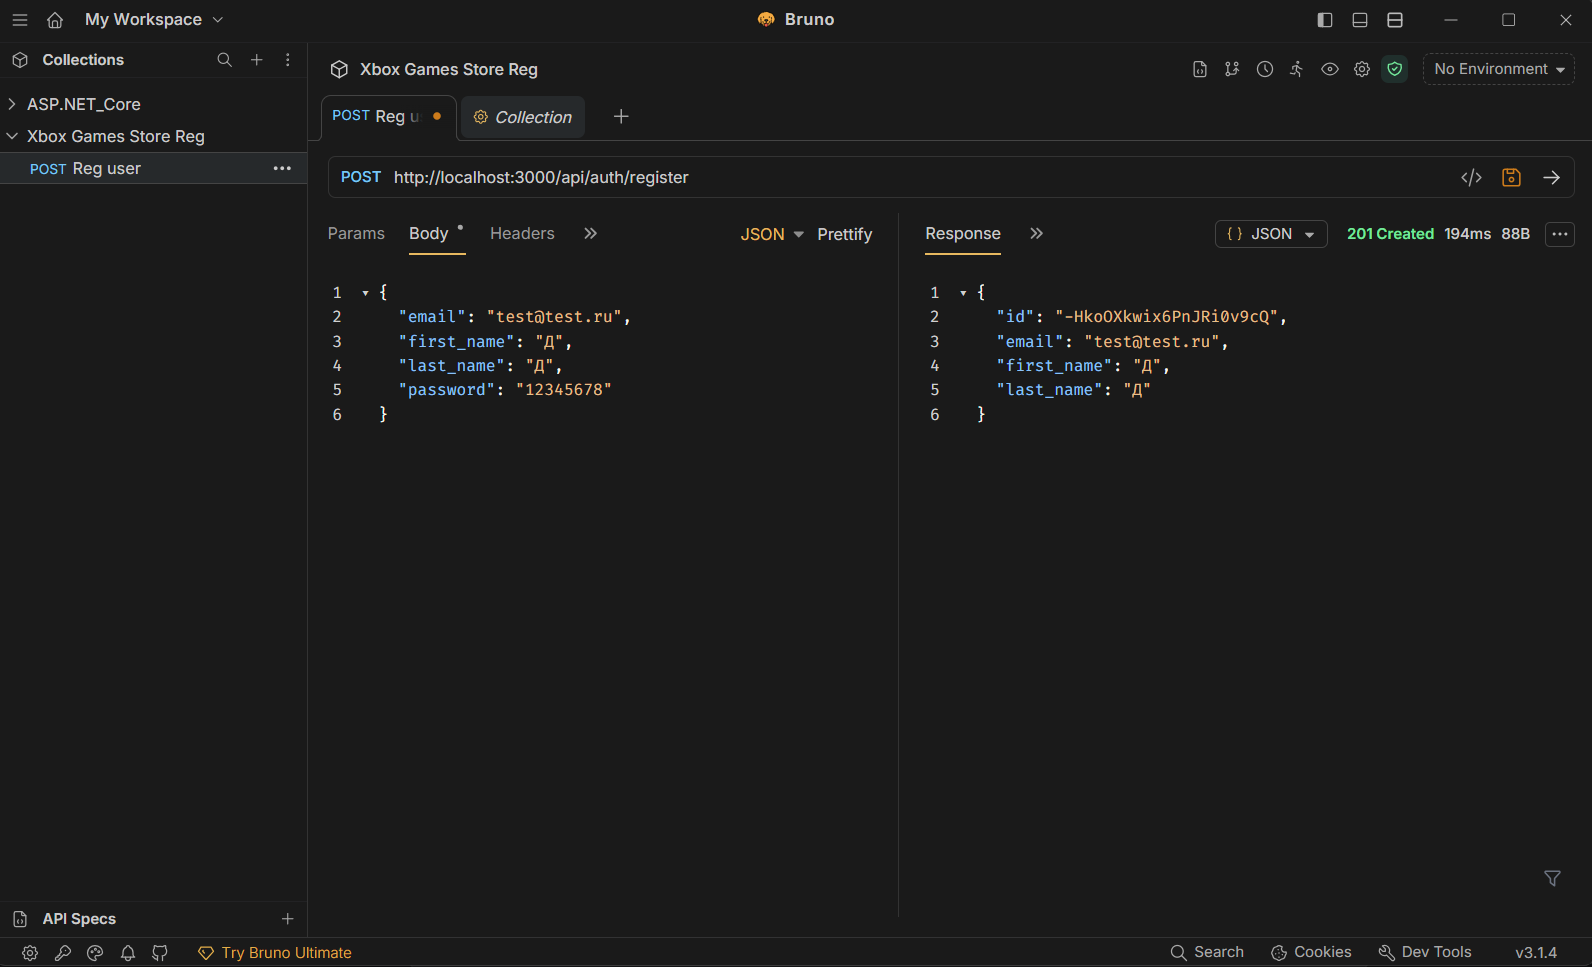
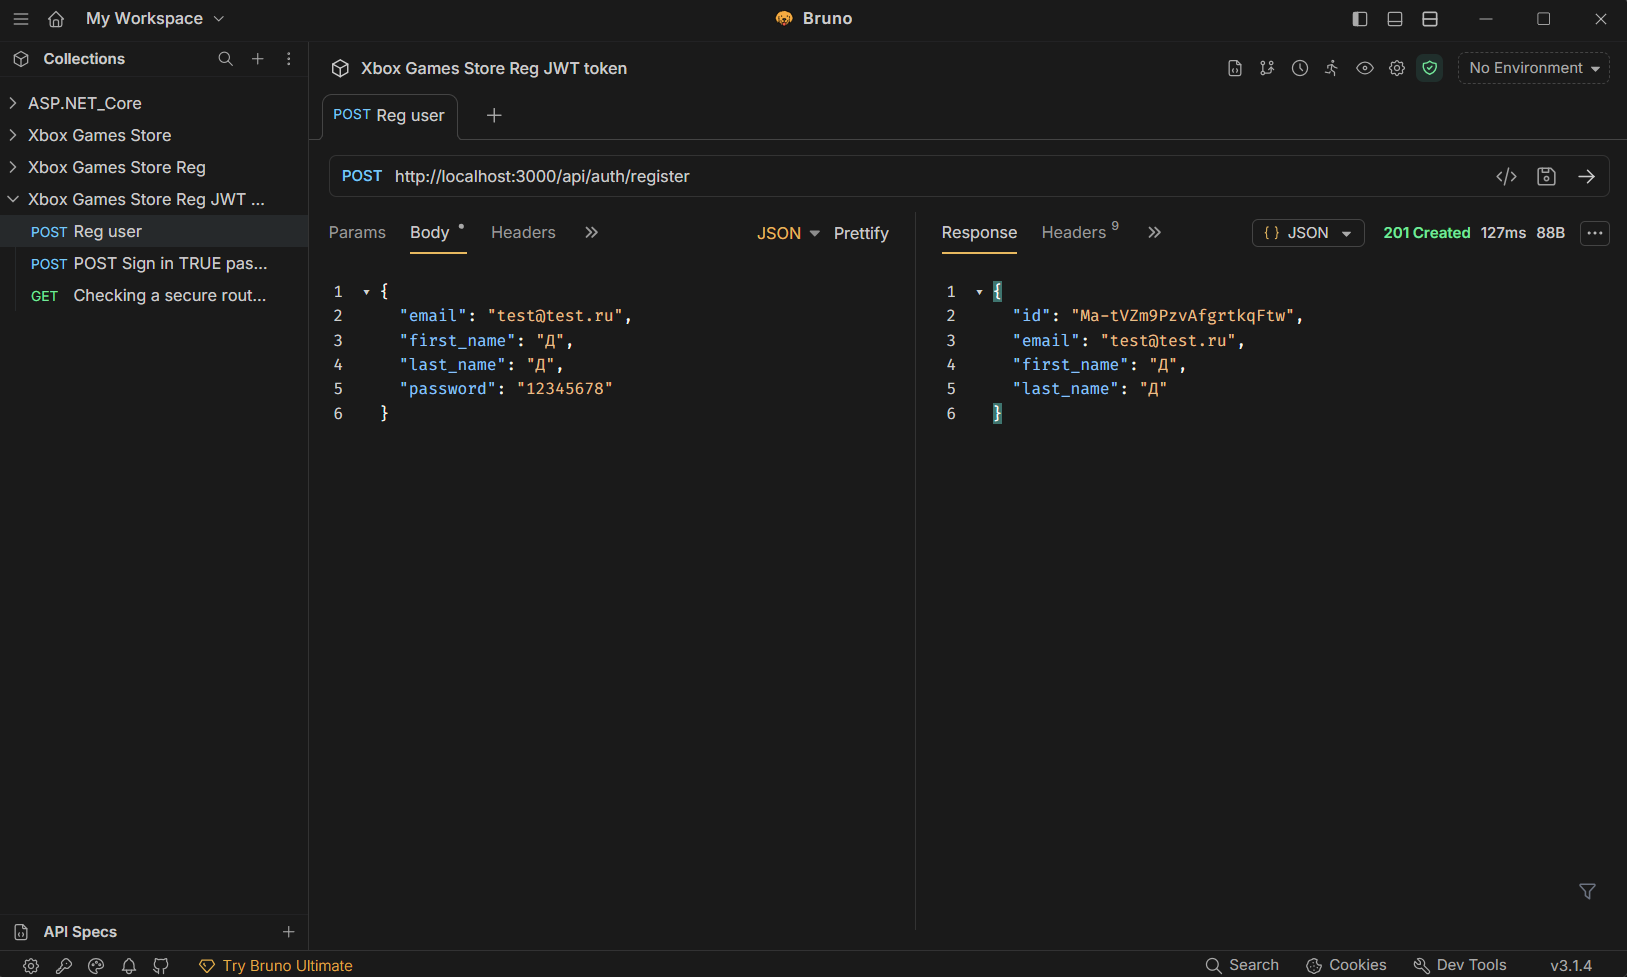
Update README.md book8

diff --git a/book8/README.md b/book8/README.md
@@ -1,3 +1,10 @@
-# Практическое задание №7: Базовые методы аутентификаци, хеширование паролей (bcrypt + соль)
+# Практическое задание №8: JSON Web Token
 
+## 1. Регистрация пользователя
+![POST_REG_USER](/book8/assets.md/POST%20Reg%20user.png)
 
+## 2. Вход с верным паролем и token
+![POST_SIGN_IN_TRUE_](/book8/assets.md/POST%20Sign%20in%20TRUE%20password.png)
+
+## 3. Защищенный маршрут /api/auth/me 
+![POST_CHECK_](/book8/assets.md/GET%20checking%20a%20secure%20route%20-me.png)
